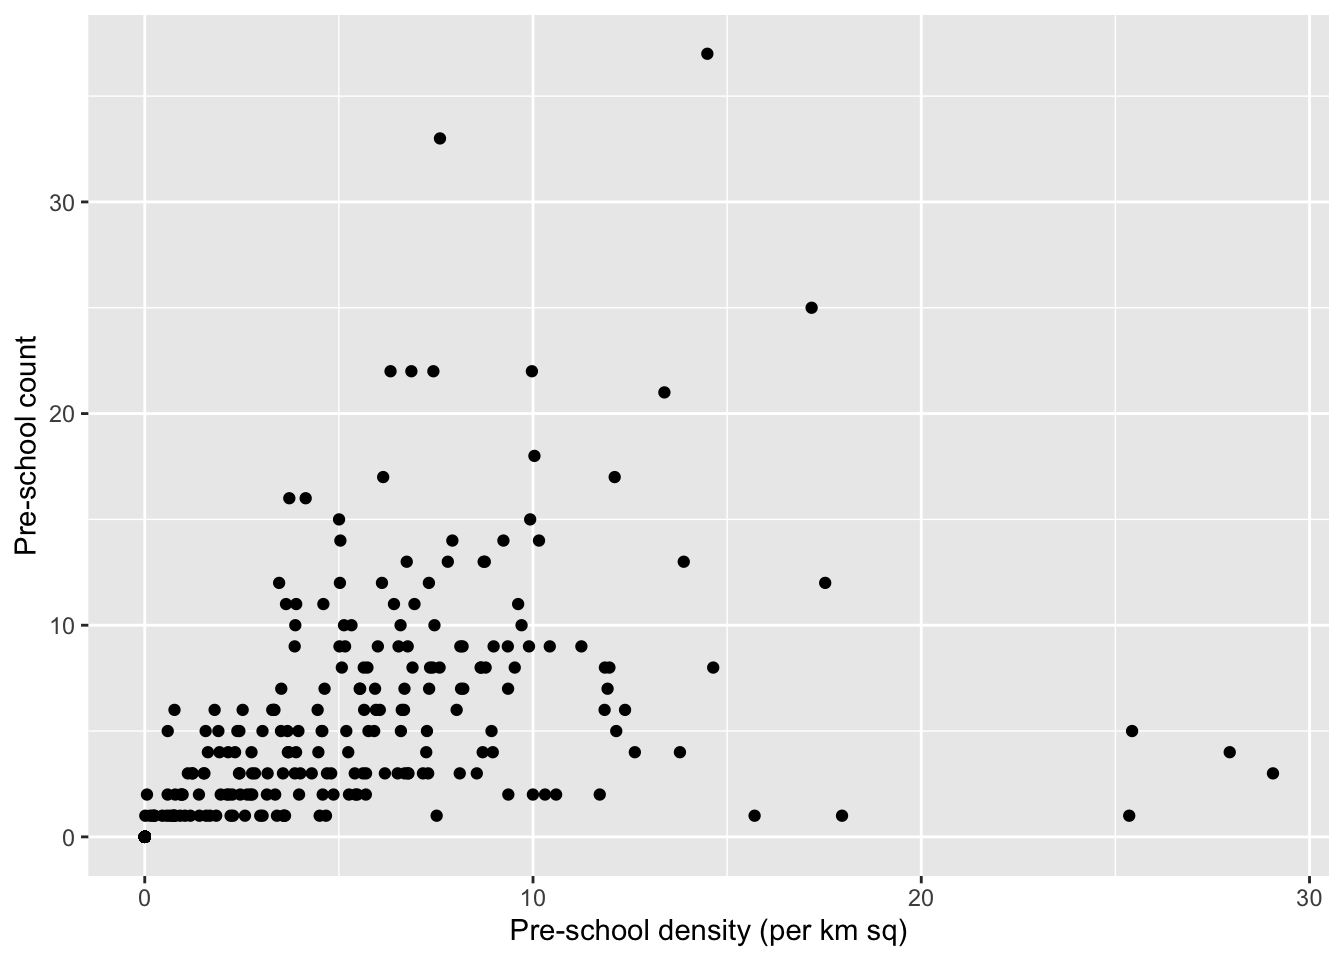
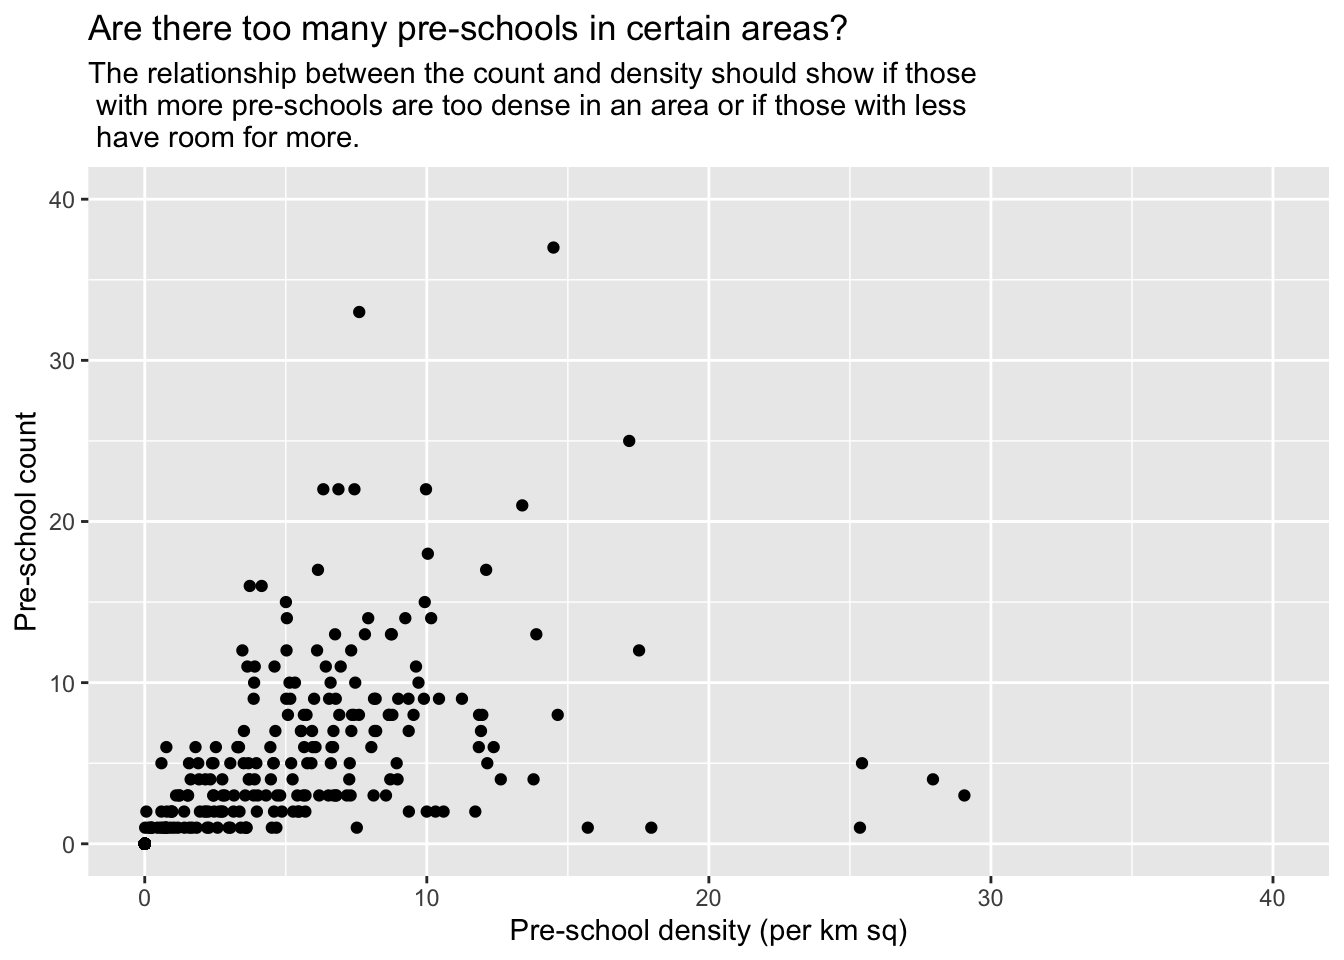
Hands-on_Ex2 created

diff --git a/_site/Hands_on_1A.html b/_site/Hands_on_1A.html
@@ -149,6 +149,10 @@ code span.wa { color: #60a0b0; font-weight: bold; font-style: italic; } /* Warni
     <a class="dropdown-item" href="./Hands-on_Ex01.html">
  <span class="dropdown-text">Hands-on Exercise 1</span></a>
   </li>  
+        <li>
+    <a class="dropdown-item" href="./Hands-on_Ex/Hands-on_Ex2/Hands-on_Ex2.html">
+ <span class="dropdown-text">Hands-on Exercise 2</span></a>
+  </li>  
     </ul>
   </li>
   <li class="nav-item dropdown ">
@@ -777,9 +781,12 @@ Projected CRS: SVY21 / Singapore TM
 <div class="cell">
 <div class="sourceCode cell-code" id="cb63"><pre class="sourceCode r code-with-copy"><code class="sourceCode r"><span id="cb63-1"><a href="#cb63-1" aria-hidden="true" tabindex="-1"></a><span class="fu">ggplot</span>(<span class="at">data=</span>mpsz3414, </span>
 <span id="cb63-2"><a href="#cb63-2" aria-hidden="true" tabindex="-1"></a>       <span class="fu">aes</span>(<span class="at">x=</span> <span class="fu">as.numeric</span>(<span class="st">`</span><span class="at">PreSch Density</span><span class="st">`</span>), <span class="at">y=</span> <span class="fu">as.numeric</span>(<span class="st">`</span><span class="at">PreSch Count</span><span class="st">`</span>)))<span class="sc">+</span></span>
-<span id="cb63-3"><a href="#cb63-3" aria-hidden="true" tabindex="-1"></a>  <span class="fu">geom_point</span>() <span class="sc">+</span></span>
-<span id="cb63-4"><a href="#cb63-4" aria-hidden="true" tabindex="-1"></a>  <span class="fu">labs</span>(<span class="at">x =</span> <span class="st">"Pre-school density (per km sq)"</span>,</span>
-<span id="cb63-5"><a href="#cb63-5" aria-hidden="true" tabindex="-1"></a>      <span class="at">y =</span> <span class="st">"Pre-school count"</span>)</span></code><button title="Copy to Clipboard" class="code-copy-button"><i class="bi"></i></button></pre></div>
+<span id="cb63-3"><a href="#cb63-3" aria-hidden="true" tabindex="-1"></a>  <span class="fu">geom_point</span>() <span class="sc">+</span>    </span>
+<span id="cb63-4"><a href="#cb63-4" aria-hidden="true" tabindex="-1"></a>  <span class="fu">coord_cartesian</span>(<span class="at">xlim=</span><span class="fu">c</span>(<span class="dv">0</span>,<span class="dv">40</span>),</span>
+<span id="cb63-5"><a href="#cb63-5" aria-hidden="true" tabindex="-1"></a>                  <span class="at">ylim=</span><span class="fu">c</span>(<span class="dv">0</span>,<span class="dv">40</span>))<span class="sc">+</span></span>
+<span id="cb63-6"><a href="#cb63-6" aria-hidden="true" tabindex="-1"></a>  <span class="fu">labs</span>(<span class="at">title =</span> <span class="st">"Are there too many pre-schools in certain areas?"</span>, <span class="at">subtitle =</span> <span class="st">"The relationship between the count and density should show if those </span><span class="sc">\n</span><span class="st"> with more pre-schools are too dense in an area or if those with less </span><span class="sc">\n</span><span class="st"> have room for more."</span>,</span>
+<span id="cb63-7"><a href="#cb63-7" aria-hidden="true" tabindex="-1"></a>    <span class="at">x =</span> <span class="st">"Pre-school density (per km sq)"</span>,</span>
+<span id="cb63-8"><a href="#cb63-8" aria-hidden="true" tabindex="-1"></a>      <span class="at">y =</span> <span class="st">"Pre-school count"</span>)</span></code><button title="Copy to Clipboard" class="code-copy-button"><i class="bi"></i></button></pre></div>
 <div class="cell-output-display">
 <p><img src="Hands_on_1A_files/figure-html/unnamed-chunk-31-1.png" class="img-fluid" width="672"></p>
 </div>
